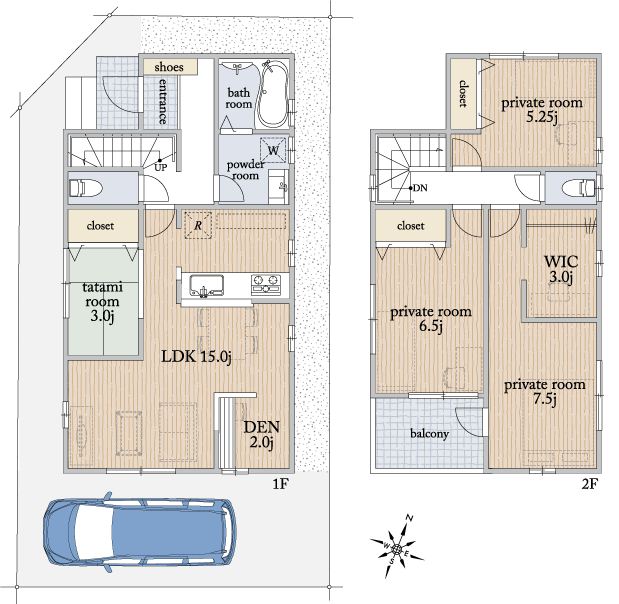
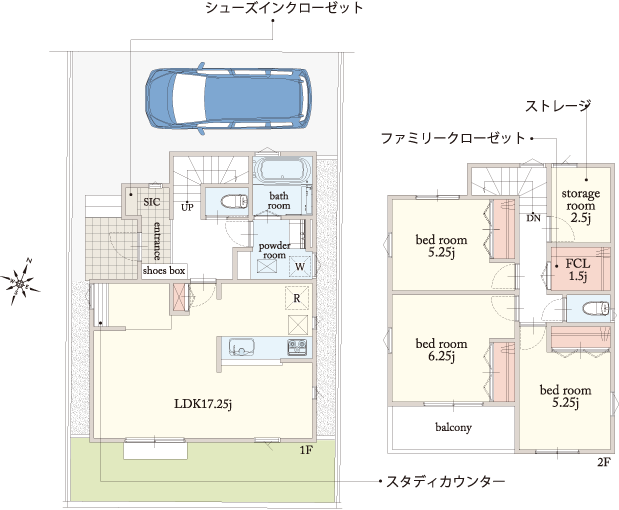
planページ > 更新

diff --git a/plan.html b/plan.html
@@ -4,7 +4,7 @@
     <meta charset="UTF-8">
     <meta http-equiv="X-UA-Compatible" content="IE=edge">
     <meta name="viewport" content="width=device-width, initial-scale=1.0">
-    <title>自由設計 | 新座市野寺4丁目 ～建築条件付土地～</title>
+    <title>プラン | 新座市野寺4丁目 ～建築条件付土地～</title>
     <link rel="icon" href="images/favicon.ico">
     <link rel="apple-touch-icon" type="image/png" href="images/apple-touch-icon.png">
     <!-- デプロイ前に確認・サンプル -->
@@ -14,7 +14,7 @@
     <!--// デプロイ前に確認・サンプル -->
 
     <link rel="stylesheet" href="css/style.css">
-    <script src="js/swiper.min.js"></script>
+    <!-- <script src="js/swiper.min.js"></script> -->
     <script src="js/luminous.min.js"></script>
 
     <!-- Fonts -->
@@ -204,7 +204,7 @@
     <!-- コンテンツ -->
     <main class="c-container">
         <!-- ファーストビュー -->
-        <div class="c-contents -f-view w1100 mgb2 mgb5s">
+        <div class="c-contents -f-view w1100 mgb10 mgb5s">
             <div class="imgBox a-fviewOutImg">
                 <img class="sp"    src="images/f-view/f-plan_sp.png">
                 <img class="tb-pc" src="images/f-view/f-plan_tbpc.png">
@@ -215,63 +215,82 @@
         </div>
         <div class="c-contents w1100 mgb10 mgb10s">
             <div class="c-contents-inner">
-                <!-- コンテンツ > タイトル -->
-                <h2 class="tb-pc s-LL -s16 c-contents_MainTitle -icon -row02 -left -lh-n pdl3 pdl7s mgb2 mgb3s">
-                    16,000棟以上の実績を誇る住協グループだからできる、<br class="tb-pc">
-                    それぞれの家族の理想をカタチにする家づくり。
-                </h2>
-                <h2 class="sp s-LL -s16 c-contents_MainTitle -icon -row02 -left -lh-n pdl3 pdl7s mgb2 mgb5s">
-                    16,000棟以上の実績を誇る住協グループだからできる、<br class="tb-pc">
-                    理想をカタチにする家づくり。
-                </h2>
-                <!-- コンテンツ > 説明 -->
-                <p class="s-M -left -lh-2 -lh-1_5_s mgb10 mgb20s a-fadeUp -sc40">
-                    実際に建築できる間取りは無限大です。何でもご希望をお伝えください。各分野のプロフェッショナル（営業・設計士・インテリアコーディネーター・カラーコーディネーター）がお客様の理想をカタチにするお手伝いさせていただきます。
-                </p>
+                <!-- 他号棟が復活した際に使用する -->
+                        <!-- コンテンツ > タイトル -->
+                        <!-- <h2 class="tb-pc s-LL -s16 c-contents_MainTitle -icon -row02 -left -lh-n pdl3 pdl7s mgb2 mgb3s">
+                            16,000棟以上の実績を誇る住協グループだからできる、<br class="tb-pc">
+                            それぞれの家族の理想をカタチにする家づくり。
+                        </h2>
+                        <h2 class="sp s-LL -s16 c-contents_MainTitle -icon -row02 -left -lh-n pdl3 pdl7s mgb2 mgb5s">
+                            16,000棟以上の実績を誇る住協グループだからできる、<br class="tb-pc">
+                            理想をカタチにする家づくり。
+                        </h2> -->
+                        <!-- コンテンツ > 説明 -->
+                        <!-- <p class="s-M -left -lh-2 -lh-1_5_s mgb10 mgb20s a-fadeUp -sc40">
+                            実際に建築できる間取りは無限大です。何でもご希望をお伝えください。各分野のプロフェッショナル（営業・設計士・インテリアコーディネーター・カラーコーディネーター）がお客様の理想をカタチにするお手伝いさせていただきます。
+                        </p> -->
+                <!-- //他号棟が復活した際に使用する -->
+
                 <!-- ---------------- 【 間取り 】 ------------------- -->
                 <div class="c-contents w95 mgb10 mgb20s">
                     <h2 class="c-contents_title -plan s-LL -center mgb10 mgb10s">間取り</h2>
                     <div class="c-contentsBox w55 w90s mgb5 mgb5s"><img src="images/item/madori.png" alt="間取り図"></div>
                     <!-- タイトル -->
                     <h2 class="s-LL -s16 c-contents_MainTitle -left -lh-n mgb2 mgb5s">
-                        それぞれの家族の希望を基に、それぞれの家族に合ったプランをご提案。
-                        だからマイホームが出来上がる。
+                        収納・動線・日当たり・広さ、全部叶えた良いとこ取りの3SLDK
                     </h2>
                     <!-- 説明 -->
                     <p class="s-M -left -lh-2 -lh-1_5_s mgb10 mgb20s a-fadeUp -sc40">
-                        【7号棟参考プラン】暮らしに便利な工夫が詰まったプラン。LDKに隣接された約3帖のタタミコーナーは子どものお昼寝スペースなど多用途に使えます。リビングはカウンター付き。PCワークや子どもの勉強スペースとしてもおすすめです。主寝室のWICはテレワークスペースとしても利用可能。リビングの生活音を気にせず作業ができます。2部屋から出入りができる奥行きのあるバルコニーは布団を干す際に便利です。（敷地面積／約100㎡　建物面積／97.71㎡　建物価格／2,243万円（税込）　※参考プランの建築を義務付けることはございません。）
+                        リビングは家族みんながゆったり寛げる広さの17帖以上。さらにスタディカウンターのある小部屋感もプラスしました。<br class="tb-pc">シューズクローゼットや家族みんなで使えるファミリークローゼット、納戸や南向きのバルコニーなど充実仕様です。
                     </p>
                     <article>
                         <ul class="c-flex -h-c_pc -col2_2 -r mgb10 mgb10s">
                             <li class="c-contents">
                                 <div class="">
-                                    <p class="c-contents_subTitle s-L -s14 -left mgb5 mgb5s a-fadeRight -sc40">家族で料理を楽しみたい</p>
-                                    <p class="s-M -lh-2 -lh-1_5_s -left a-fadeRight -sc40">子どもと一緒にご飯やお菓子作りを楽しみたい家族なら、キッチン周りを充実させることもできます。大型パントリー収納、アイランドキッチンなどお好み仕様にカスタマイズが可能です。</p>
+                                    <p class="c-contents_subTitle s-L -s14 -left mgb5 mgb5s a-fadeRight -sc40">ファミリークローゼット</p>
+                                    <p class="s-M -lh-2 -lh-1_5_s -left a-fadeRight -sc40">2階にあるファミリークローゼットには、衣類はもちろんですがクリスマスツリーや雛人形などのかさばるシーズン用品も収納できます。お出かけ前に家族揃って「今日は何を着ていく？」と選ぶ時間も素敵ですね。</p>
                                 </div>
                             </li>
                             <li class="a-flipLeft -sc40">
                                 <div class="a-zoomImg">
                                     <div class="imgBox">
-                                        <img src="images/pic/freeplan-01.jpg" alt="家族写真">
+                                        <img src="images/pic/plan-01.jpg" alt="クローゼットの写真">
                                     </div>
                                 </div>
                             </li>
                         </ul>
                     </article>
                     <article>
-                        <ul class="c-flex -h-c_pc -col2_2">
+                        <ul class="c-flex -h-c_pc -col2_2 mgb10 mgb10s">
                             <li class="">
                                 <div class="">
-                                    <p class="c-contents_subTitle s-L -s14 -left mgb5 mgb5s a-fadeLeft -sc40">シアタールームや防音室</p>
+                                    <p class="c-contents_subTitle s-L -s14 -left mgb5 mgb5s a-fadeLeft -sc40">シューズインクローゼット</p>
                                     <p class="s-M -lh-2 -lh-1_5_s -left a-fadeLeft -sc40">
-                                        映画や楽器演奏が趣味の家族には、防音室なども対応可能です。趣味特化した家づくりができるのも自由設計の魅力になります。
+                                        玄関直結のシューズインクローゼットには、靴だけではなくキャンプ用品などのアウトドア用品や、子ども用自転車やベビーカーなども置くことができるスペースです。室内に砂や汚れを持ち込まずに保管ができる便利な空間です。
                                     </p>
                                 </div>
                             </li>
                             <li class="a-flipRight -sp5 -sc40">
                                 <div class="a-zoomImg">
                                     <div class="imgBox">
-                                        <img src="images/pic/freeplan-02.jpg" >
+                                        <img src="images/pic/plan-02.jpg" alt="シューズインクローゼットの写真">
+                                    </div>
+                                </div>
+                            </li>
+                        </ul>
+                    </article>
+                    <article>
+                        <ul class="c-flex -h-c_pc -col2_2 -r mgb10 mgb10s">
+                            <li class="c-contents">
+                                <div class="">
+                                    <p class="c-contents_subTitle s-L -s14 -left mgb5 mgb5s a-fadeRight -sc40">南向きバルコニー</p>
+                                    <p class="s-M -lh-2 -lh-1_5_s -left a-fadeRight -sc40">南側のバルコニーにはたっぷり陽射しが差し込むので、洗濯物もしっかり乾かすことができます。2階にファミリークローゼットがあるので、そのまま階段を使わずにかさばるコートなど収納することも可能です。</p>
+                                </div>
+                            </li>
+                            <li class="a-flipLeft -sc40">
+                                <div class="a-zoomImg">
+                                    <div class="imgBox">
+                                        <img src="images/pic/plan-03.jpg" alt="洗濯の写真">
                                     </div>
                                 </div>
                             </li>
@@ -279,7 +298,7 @@
                     </article>
                 </div>
                 <!-- ---------------- 【 > スライダー関係 】　---------------- -->
-                <div class="c-contents w95 mgb20 mgb20s">
+                <!-- <div class="c-contents w95 mgb20 mgb20s">
                     <h2 class="c-contents_title -portfolio s-LL -center mgb10 mgb10s">施工例</h2>
                     <div class="swiper swiper-Build">
                         <ul class="swiper-wrapper">
@@ -303,6 +322,109 @@
                         <div class="sp swiper-button-next"></div>
                         <div class="swiper-pagination"></div>
                     </div>
+                </div> -->
+                
+                <!-- 外観・内観 -->
+                <div class="c-contents">
+                    <h2 class="c-contents_title -gallery s-LL -center mgb7 mgb10s">外観・内観</h2>
+                    <ul class="c-flex -col2_3">
+                        <li class="mgb3 mgb3s">
+                            <div class="a-zoomImg">
+                                <div class="imgBox">
+                                    <a href="images/pic/tab17-01.jpg" class="luminous" data-lightbox="build-pic" data-title="17号棟リビング 1/12"><img src="images/pic/tab17-01.jpg"  alt="17号棟リビング 1/12"/></a>
+                                </div>
+                            </div>
+                            <p class="s-M -left">リビング</p>
+                        </li>
+                        <li class="mgb3 mgb3s">
+                            <div class="a-zoomImg">
+                                <div class="imgBox">
+                                    <a href="images/pic/tab17-02.jpg" class="luminous" data-lightbox="build-pic" data-title="17号棟リビング 2/12"><img src="images/pic/tab17-02.jpg"  alt="17号棟リビング 2/12"/></a>
+                                </div>
+                            </div>
+                            <p class="s-M -left">リビング</p>
+                        </li>
+                        <li class="mgb3 mgb3s">
+                            <div class="a-zoomImg">
+                                <div class="imgBox">
+                                    <a href="images/pic/tab17-03.jpg" class="luminous" data-lightbox="build-pic" data-title="17号棟リビング&作業スペース 3/12"><img src="images/pic/tab17-03.jpg"  alt="17号棟リビング&作業スペース 3/12"/></a>
+                                </div>
+                            </div>
+                            <p class="s-M -left">リビング&作業スペース</p>
+                        </li>
+                        <li class="mgb3 mgb3s">
+                            <div class="a-zoomImg">
+                                <div class="imgBox">
+                                    <a href="images/pic/tab17-04.jpg" class="luminous" data-lightbox="build-pic" data-title="17号棟キッチン 4/12"><img src="images/pic/tab17-04.jpg"  alt="17号棟キッチン 4/12"/></a>
+                                </div>
+                            </div>
+                            <p class="s-M -left">キッチン</p>
+                        </li>
+                        <li class="mgb3 mgb3s">
+                            <div class="a-zoomImg">
+                                <div class="imgBox">
+                                    <a href="images/pic/tab17-05.jpg" class="luminous" data-lightbox="build-pic" data-title="17号棟キッチン 5/12"><img src="images/pic/tab17-05.jpg"  alt="17号棟キッチン 5/12"/></a>
+                                </div>
+                            </div>
+                            <p class="s-M -left">キッチン</p>
+                        </li>
+                        <li class="mgb3 mgb3s">
+                            <div class="a-zoomImg">
+                                <div class="imgBox">
+                                    <a href="images/pic/tab17-06.jpg" class="luminous" data-lightbox="build-pic" data-title="17号棟パウダールーム 6/12"><img src="images/pic/tab17-06.jpg"  alt="17号棟パウダールーム 6/12"/></a>
+                                </div>
+                            </div>
+                            <p class="s-M -left">パウダールーム</p>
+                        </li>
+                        <li class="mgb3 mgb3s">
+                            <div class="a-zoomImg">
+                                <div class="imgBox">
+                                    <a href="images/pic/tab17-07.jpg" class="luminous" data-lightbox="build-pic" data-title="17号棟バスルーム 7/12"><img src="images/pic/tab17-07.jpg"  alt="17号棟バスルーム 7/12"/></a>
+                                </div>
+                            </div>
+                            <p class="s-M -left">バスルーム</p>
+                        </li>
+                        <li class="mgb3 mgb3s">
+                            <div class="a-zoomImg">
+                                <div class="imgBox">
+                                    <a href="images/pic/tab17-08.jpg" class="luminous" data-lightbox="build-pic" data-title="17号棟トイレ 8/12"><img src="images/pic/tab17-08.jpg"  alt="17号棟トイレ 8/12"/></a>
+                                </div>
+                            </div>
+                            <p class="s-M -left">トイレ</p>
+                        </li>
+                        <li class="mgb3 mgb3s">
+                            <div class="a-zoomImg">
+                                <div class="imgBox">
+                                    <a href="images/pic/tab17-09.jpg" class="luminous" data-lightbox="build-pic" data-title="17号棟洋室 9/12"><img src="images/pic/tab17-09.jpg"  alt="17号棟洋室 9/12"/></a>
+                                </div>
+                            </div>
+                            <p class="s-M -left">洋室</p>
+                        </li>
+                        <li class="mgb3 mgb3s">
+                            <div class="a-zoomImg">
+                                <div class="imgBox">
+                                    <a href="images/pic/tab17-10.jpg" class="luminous" data-lightbox="build-pic" data-title="17号棟玄関 10/12"><img src="images/pic/tab17-10.jpg"  alt="17号棟玄関 10/12"/></a>
+                                </div>
+                            </div>
+                            <p class="s-M -left">玄関</p>
+                        </li>
+                        <li class="mgb3 mgb3s">
+                            <div class="a-zoomImg">
+                                <div class="imgBox">
+                                    <a href="images/pic/tab17-11.jpg" class="luminous" data-lightbox="build-pic" data-title="17号棟玄関 11/12"><img src="images/pic/tab17-11.jpg"  alt="17号棟玄関 11/12"/></a>
+                                </div>
+                            </div>
+                            <p class="s-M -left">玄関</p>
+                        </li>
+                        <li class="mgb3 mgb3s">
+                            <div class="a-zoomImg">
+                                <div class="imgBox">
+                                    <a href="images/pic/tab17-12.jpg" class="luminous" data-lightbox="build-pic" data-title="17号棟玄関 12/12"><img src="images/pic/tab17-12.jpg"  alt="17号棟玄関 12/12"/></a>
+                                </div>
+                            </div>
+                            <p class="s-M -left">玄関</p>
+                        </li>
+                    </ul>
                 </div>
             </div>
         </div>
@@ -436,36 +558,36 @@
 
     <script>
         // 施工例スライダー
-        const buildSwiper = new Swiper(".swiper-Build", {
-            effect: 'slide',
-            mousewheel: {
-                invert: false,
-            },
-            centeredSlides: true,
-            slidesPerView: 1,
-            fadeEffect: {crossFade: true,},
-            loop: true,
-            // speed: 3000,
-            autoplay: {
-                delay: 5000,
-                disableOnInteraction: false,
-                waitForTransition: true,
-            },
-            grabCursor: true,
-            followFinger: false,
-            navigation: {
-                nextEl: ".swiper-button-next",
-                prevEl: ".swiper-button-prev",
-            },
-            pagination: {
-                el: '.swiper-Fview .swiper-pagination',
-                clickable: true,
-            },
-            breakpoints: {
-                768: {slidesPerView: 3,},
-                980: {slidesPerView: 3,},
-            }
-        });
+        // const buildSwiper = new Swiper(".swiper-Build", {
+        //     effect: 'slide',
+        //     mousewheel: {
+        //         invert: false,
+        //     },
+        //     centeredSlides: true,
+        //     slidesPerView: 1,
+        //     fadeEffect: {crossFade: true,},
+        //     loop: true,
+        //     // speed: 3000,
+        //     autoplay: {
+        //         delay: 5000,
+        //         disableOnInteraction: false,
+        //         waitForTransition: true,
+        //     },
+        //     grabCursor: true,
+        //     followFinger: false,
+        //     navigation: {
+        //         nextEl: ".swiper-button-next",
+        //         prevEl: ".swiper-button-prev",
+        //     },
+        //     pagination: {
+        //         el: '.swiper-Fview .swiper-pagination',
+        //         clickable: true,
+        //     },
+        //     breakpoints: {
+        //         768: {slidesPerView: 3,},
+        //         980: {slidesPerView: 3,},
+        //     }
+        // });
         
         // ポップアップ
         var luminousTrigger = document.querySelectorAll('.luminous');
